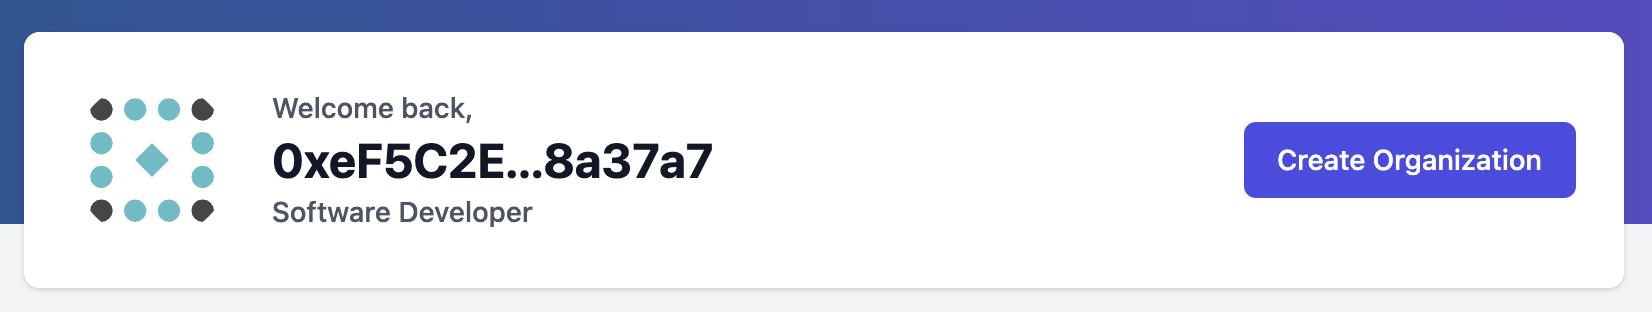
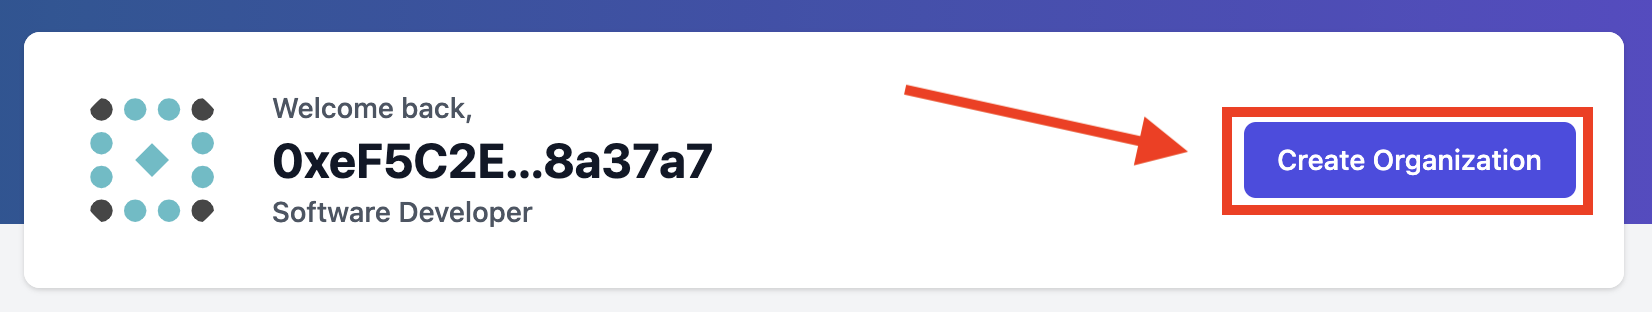
Push image fixes

Changed region(s): [[0.5248, 0.2596, 0.9879, 0.6923]]

diff --git a/docs/index.md b/docs/index.md
@@ -1,34 +1,5 @@
 # Getting Started
 
-## Why Valist
-
-Valist is a software/firmware/binary data notary system, similar to the concept that Apple uses to digitally sign and secure applications, but open to developers to extend and integrate into almost any system, traditional or decentralized. No need for expensive and centralized PKIs or manual code signing processes!
-
-The goal is to point **any** software distribution system at a Valist relay, which will ensure the integrity of the packages and act as a universal cache.
-
-You can think of Valist as a trustless Bintray, or a universal Verdaccio, but with far more powerful access control and data integrity features. This includes multi-factor releases (M of N keys need to sign on some firmware before release), as well as the ability to use any hardware wallet to sign code.
-
-Valist is designed to be highly extensible and interoperable with many package managers that developers are familiar with, such as NPM, Pip, Docker, APT, and Cargo.
-
-Currently, the Valist API supports:
-
-* Arbitrary Binaries, with automatic code-signing
-
-* NPM packages
-
-* Pip packages
-
-* Docker images
-
-## Architecture
-
-Valist provides a simple web frontend and HTTP relay that can be deployed locally or on a server, with a shared Valist-SDK library used for the CLI (and other clients). The intent is to be CI/CD friendly, enabling automatic publishing of cryptographically verifiable software.
-
-The Valist-SDK reference implementation is currently written in TypeScript, using minimal dependencies and is leveraged to build a REST API layer to ensure backwards compatibility with traditional package managers and HTTP compatibility.
-
-The following diagram is a visualization of the current implementation:
-
-![Valist Architecture](img/architecture.svg)
 
 ## Installation
 
@@ -55,3 +26,32 @@ The Valist-sdk can be installed by running the following command:
 ```bash
 npm install @valist/valist-sdk --registry=https://app.valist.io/api/npm
 ```
+## Why Valist
+
+Valist is a software/firmware/binary data notary system, similar to the concept that Apple uses to digitally sign and secure applications, but open to developers to extend and integrate into almost any system, traditional or decentralized. No need for expensive and centralized PKIs or manual code signing processes!
+
+The goal is to point **any** software distribution system at a Valist relay, which will ensure the integrity of the packages and act as a universal cache.
+
+You can think of Valist as a trustless [Artifactory](https://jfrog.com/artifactory/), or a universal [Verdaccio](https://verdaccio.org/), but with far more powerful access control and data integrity features. This includes multi-factor releases (M of N keys need to sign on some firmware before release), as well as the ability to use any hardware wallet to sign code.
+
+Valist is designed to be highly extensible and interoperable with many package managers that developers are familiar with, such as NPM, Pip, Docker, APT, and Cargo.
+
+Currently, the Valist API supports:
+
+* Arbitrary Binaries, with automatic code-signing
+
+* NPM packages
+
+* Pip packages
+
+* Docker images
+
+## Architecture
+
+Valist provides a simple web frontend and HTTP relay that can be deployed locally or on a server, with a shared Valist-SDK library used for the CLI (and other clients). The intent is to be CI/CD friendly, enabling automatic publishing of cryptographically verifiable software.
+
+The Valist-SDK reference implementation is currently written in TypeScript, using minimal dependencies and is leveraged to build a REST API layer to ensure backwards compatibility with traditional package managers and HTTP compatibility.
+
+The following diagram is a visualization of the current implementation:
+
+![Valist Architecture](img/current-implementation.png){width=300px}

diff --git a/docs/creating-an-organization.md b/docs/creating-an-organization.md
@@ -1,10 +1,10 @@
 # Creating an Organization
 
-Creating an organization is the first step to publishing software on valist! Organizations are how users are able to manage their various software repositories and admin credentials on valist. Each organizations receives a unique `valist-ID` which is then linked to a namespace that is governed by the members (keys) of the organization.
+Creating an organization is the first step to publishing software on valist! Organizations are how users are able to manage their various software repositories and admin credentials on valist. Each organization receives a unique `valist-ID` which is then linked to a namespace that is governed by the members (keys) of the organization.
 
 ## CLI
 
-To create and organization from the cli it's as simple as running `valist org:new` and passing it the name of the organization that you would like to create.
+To create an organization from the CLI it's as simple as running `valist org:new` and passing it the name of the organization that you would like to create.
 
 ```bash
   valist org:new exampleOrg
@@ -16,10 +16,36 @@ To create a new organization from the web interface navigate to the [valist dash
 
 Upon successful login, you will be greeted by the following welcome message displaying your current address and a new button, `Create Organization`.
 
-![create-organization-button](img/valist-create-org-button.png)
+![create-organization-button](img/valist-create-org-button.png){ width=600px }
 
 After clicking `create organization` you will be navigated to the create organization page.
 
-![create-org-page](img/valist-create-org-form.png)
+![create-org-page](img/valist-create-org-form.png){ width=600px }
 
 Fill out your organizations `Shortname`, `Full Name`, and `Description` and click `Create Organization`, keep in mind if you are logged in with `meta-mask` you will be prompted for a signature confirmation.
+
+## SDK
+
+To create a new organization using the Valist-SDK, create a new javascript file containing the following:
+
+```javascript
+  import Valist from '@valist/sdk';
+  const HDWalletProvider = require('@truffle/hdwallet-provider');
+
+  const key = "<key>";
+  const orgName = "<orgName";
+  const metaData = "<orgMeta>";
+
+  const web3Provider = new HDWalletProvider({
+    privateKeys: [key],
+    providerOrUrl: 'https://rpc.valist.io',
+  });
+
+  const valist = new Valist({web3Provider});
+
+  (async () => {
+    const { transactionHash } = await valist.createOrganization(orgName, metaData, valist.defaultAccount);
+
+    console.log(transactionHash);
+  })();
+```

diff --git a/docs/creating-a-repository.md b/docs/creating-a-repository.md
@@ -1,7 +1,54 @@
 # Creating a Repository
 
+After you have created an organization, you are ready to create a repository. Creating a repository allows you to mange, publish, and retrieve your software releases on Valist.
+
 ## CLI
+
+To create a new repository on from the CLI you call `valist repo:new` and pass it your `organization` and your `repository name`.
+
+```bash
+valist repo:new repoName OrgName
+```
 
 ## Web
 
+To create a new repository from the web interface navigate to the [valist dashboard](https://app.valist.io) and login.
+
+Next from your dashboard select the organization that you would like to create a repository under.
+
+![select-repository](img/valist-select-org.png){ width=600px }
+
+On the repository page, click `Create Project`.
+
+![create-repository-button](img/valist-create-project-button.png){ width=600px }
+
+Fill out your repositories `Shortname`, `type`, and `Description` and click `Create Project`, keep in mind if you are logged in with `meta-mask` you will be prompted for a signature confirmation.
+
+![create-repository-form](img/valist-create-repo-form.png){ width=600px }
+
 ## SDK
+
+To create a new repository using the Valist-SDK, create a new javascript file containing the following:
+
+```javascript
+  import Valist from '@valist/sdk';
+  const HDWalletProvider = require('@truffle/hdwallet-provider');
+
+  const key = "<key>";
+  const orgName = "<orgName";
+  const repoName = "<repoName>";
+  const metaData = "<orgMeta>";
+
+  const web3Provider = new HDWalletProvider({
+    privateKeys: [key],
+    providerOrUrl: 'https://rpc.valist.io',
+  });
+
+  const valist = new Valist({web3Provider});
+
+  (async () => {
+    const { transactionHash } = await valist.createRepository(orgName,  repoName, metaData, valist.defaultAccount);
+
+    console.log(transactionHash);
+  })();
+```

diff --git a/docs/multi-factor-everything.md b/docs/multi-factor-everything.md
@@ -1,8 +1,26 @@
 # Multi-Factor Everything
 
+One of the coolest features of Valist is that there is a multi-factor system for everything. With multi-factor everything you can eliminate single points of failure within your software supply chain and have all actions audited and approved from members across your organization.
+
 ## How it works
 
+You may have heard of the [two man rule](https://en.wikipedia.org/wiki/Two-man_rule) an authentication mechanism designed to prevent accidental or malicious launch of nuclear weapons by a single individual. This mechanism requires the presence of two authorized individuals, **with special keys**, to perform a nuclear strike. Valist applies this same concept to software distribution. When enabled multi-party verification requires operations be verified and digitally signed by multiple members within your organization before being finalized.
+
+![two-man-rule](img/two-man-rule.jpeg)
+
 ## Organization vs Repo Level
+
+On the **organization** level organization admins are able to vote on:
+
+* Adding new organization admins to the organization
+
+On the **repository** level members are able to vote on:
+
+* Approving a new repository threshold for votes.
+
+* Adding a new developer key to the repository.
+
+* Revoking an existing developer key from the repository.
 
 ## Setting up a Signature Threshold
 

diff --git a/docs/access-control.md b/docs/access-control.md
@@ -4,12 +4,18 @@
 
 ### Organization Admin
 
+An organization admin is the default role for managing an organization on valist. They are responsible for adding new developers to a repository as well as keeping the repository metadata up to date.
+
 ### Repository Developer
+
+A repository developer is the default role for managing the releases under a repository. Together repository developers are able to vote on the next release of a piece of software.
 
 ## Key Management
 
 ### CLI
 
+The valist CLI leverages the [keytar library](https://www.npmjs.com/package/keytar) for secure storage of keys in the devices keystore.
+
 ### Web
 
-### SDK
+In browser, the valist relay frontend interacts with `Meta-mask` for key management.

diff --git a/docs/publishing-software.md b/docs/publishing-software.md
@@ -8,6 +8,19 @@
 
 ### SDK
 
+```bash
+const Valist = require('@valist/sdk');
+
+(async () => {
+  const valist = new Valist({ web3Provider: YOUR_WEB3_PROVIDER, metaTx: false });
+  await valist.connect();
+
+  const releases = await valist.getReleasesFromRepo('valist', 'sdk');
+
+  console.log(releases);
+})();
+```
+
 ## NPM Packages
 
 ### CLI
